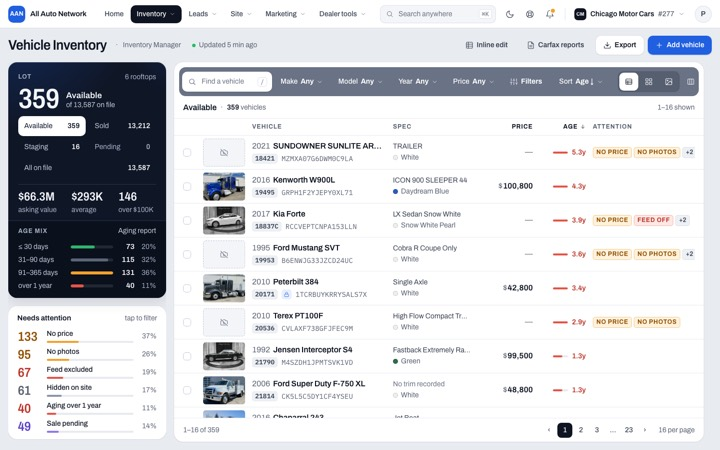
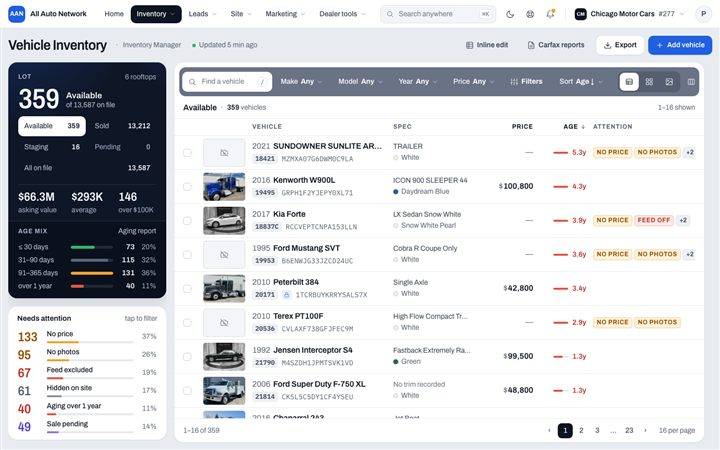
All Vehicles Gen 10: bento intelligence on top, vehicle opens inline under its row
Lot column becomes a top bento (dominant Lot with lanes and age mix, compact Value, wide Needs-attention). The side inspector is replaced by an accordion sheet beneath the selected row (photo, KPIs, tags, health, market, comps, spec, history, actions); the Dock is Filters only. Dashboard gains a Gen 10 card and previews.

diff --git a/pages/dealer/all-vehicles-gen10.js b/pages/dealer/all-vehicles-gen10.js
@@ -1,4 +1,5 @@
-/* Gen 10 — Gen 7 workspace behaviour, plus: platform menus, Light/Dark, and the Dock as accordions
+/* Gen 10 — bento intelligence on top, vehicle opens INLINE under its row (accordion sheet), Dock = Filters only.
+   Platform menus, Light/Dark, facet counts
    (Filters with facet counts; vehicle inspector with Market & pricing, Recent comps, History).
    Prototype JS. Every facet count, market figure, comparable listing and history entry is DEMO data. */
 (function () {
@@ -37,7 +38,7 @@
   var S = {
     sort: 'days', dir: 'desc', attn: {}, age: null, sel: {}, lane: 'Available', dock: null, cur: null, fq: '', allMakes: false,
     f: { make: {}, model: {}, year: {}, price: {}, mile: {}, loc: {}, type: {}, merch: {}, color: {}, opt: {} },
-    acc: { health: false, market: true, comps: false, spec: false, hist: false, 'f-make': true, 'f-price': true, 'f-year': false, 'f-model': false, 'f-mile': false, 'f-loc': false, 'f-type': false, 'f-merch': false, 'f-color': false, 'f-opt': false, 'f-audit': false }
+    acc: { health: true, market: false, comps: false, spec: false, hist: false, 'f-make': true, 'f-price': true, 'f-year': false, 'f-model': false, 'f-mile': false, 'f-loc': false, 'f-type': false, 'f-merch': false, 'f-color': false, 'f-opt': false, 'f-audit': false }
   };
 
   function band(d) { return d <= 30 ? 'fresh' : d <= 90 ? 'mid' : d <= 365 ? 'late' : 'stale'; }
@@ -85,7 +86,7 @@
   /* ── rows ─────────────────────────────────────────────────────────── */
   function tag(t) { return '<span class="tag' + (TONE[t] ? ' tag--' + TONE[t] : '') + '">' + esc(t) + '</span>'; }
   function row(v) {
-    var b = band(v.d), max = S.dock ? 1 : (v.f.length > 3 ? 2 : 3), tags = v.f.slice(0, max), rest = v.f.length - tags.length;
+    var b = band(v.d), max = S.dock === 'filters' ? 1 : (v.f.length > 3 ? 2 : 3), tags = v.f.slice(0, max), rest = v.f.length - tags.length;
     var name = v.y + ' ' + v.mk + ' ' + v.md;
     return '<div class="row' + (S.sel[v.id] ? ' sel' : '') + (S.cur === v.id ? ' open' : '') + '" data-id="' + v.id + '" tabindex="0" aria-label="' + esc(name) + '">' +
       '<input class="ck" type="checkbox" data-sel="' + v.id + '"' + (S.sel[v.id] ? ' checked' : '') + ' aria-label="Select ' + esc(name) + '">' +
@@ -101,7 +102,8 @@
 
   function render() {
     var L = list(), F = filtered();
-    $('#tb').innerHTML = L.length ? L.map(row).join('') : '<div class="empty">No vehicles match these filters.<button type="button" data-act="clear-all">Clear all</button></div>';
+    $('#tb').innerHTML = L.length ? L.map(function (v) { return row(v) + (S.cur === v.id ? '<div class="exp" id="exp"><div><div class="exp__in">' + vehicleSheet(v) + '</div></div></div>' : ''); }).join('') : '<div class="empty">No vehicles match these filters.<button type="button" data-act="clear-all">Clear all</button></div>';
+    var ex = $('#exp'); if (ex) { if (S.expNow) ex.classList.add('exp--open'); else requestAnimationFrame(function () { requestAnimationFrame(function () { ex.classList.add('exp--open'); }); }); S.expNow = true; }
     $('#shown').textContent = (L.length ? '1–' + L.length : '0') + ' of ' + (F ? L.length : 359);
 
     var chips = [];
@@ -131,7 +133,6 @@
     var n = Object.keys(S.sel).filter(function (x) { return S.sel[x]; }).length;
     $('#tray').classList.toggle('tray--on', n > 0); $('#tray-n').textContent = n;
     if (S.dock === 'filters') renderFilters();
-    if (S.dock === 'vehicle') { var v = byId(S.cur), i = L.indexOf(v); $('#dock-c').textContent = i >= 0 ? (i + 1) + ' of ' + L.length : 'not in current filter'; }
   }
   function renderMakes() {
     $('#make-list').innerHTML = MAKES.map(function (m) { return '<label class="pop__it"><input class="ck" type="checkbox" data-f="make" data-k="' + esc(m[0]) + '"' + (S.f.make[m[0]] ? ' checked' : '') + '><span>' + esc(m[0]) + '</span><span class="c">' + m[1] + '</span></label>'; }).join('');
@@ -182,16 +183,30 @@
     if (p) { if (open) p.removeAttribute('inert'); else p.setAttribute('inert', ''); }
   }
   function openDock() { $('#app').classList.add('dock-open'); $('[data-act="filters"]').classList.toggle('facet__b--on', S.dock === 'filters'); }
-  function closeDock() { S.dock = null; S.cur = null; $('#app').classList.remove('dock-open'); $('[data-act="filters"]').classList.remove('facet__b--on'); $('#dock-f').className = 'dock__f'; render(); }
+  function closeDock() { S.dock = null; $('#app').classList.remove('dock-open'); $('[data-act="filters"]').classList.remove('facet__b--on'); $('#dock-f').className = 'dock__f'; render(); }
 
   function showVehicle(id) {
     var v = byId(id); if (!v) return;
-    S.cur = id; S.dock = 'vehicle';
-    $('#dock-t').textContent = 'Vehicle'; $('#dock-nav').hidden = false;
-    $('#dock-b').innerHTML = vehicleBody(v); $('#dock-b').scrollTop = 0;
-    $('#dock-f').className = 'dock__f'; $('#dock-f').innerHTML = vehicleFoot(v);
-    openDock(); render();
-    var r = $('.row[data-id="' + id + '"]'); if (r) r.scrollIntoView({ block: 'nearest' });
+    if (S.cur === id) { closeVehicle(); return; }
+    var ex = $('#exp');
+    S.cur = id; S.expNow = false;
+    var go = function () { render(); var r = $('.row[data-id="' + id + '"]'); if (r) r.scrollIntoView({ block: 'nearest' }); };
+    if (ex) { ex.classList.remove('exp--open'); setTimeout(go, 200); } else go();
+  }
+  function closeVehicle() {
+    var ex = $('#exp'); S.cur = null;
+    if (ex) { ex.classList.remove('exp--open'); setTimeout(render, 200); } else render();
+  }
+
+  function vehicleSheet(v) {
+    var has = function (t) { return v.f.indexOf(t) >= 0; };
+    var acts = '<div class="veh__acts"><button class="btn btn--primary" type="button">' + ic('i-edit') + ' Edit vehicle</button>' +
+      '<button class="btn btn--sheet" type="button">' + ic('i-cam') + ' Photos</button><button class="btn btn--sheet" type="button">' + ic('i-print') + ' Window sticker</button>' +
+      '<button class="btn btn--sheet" type="button">' + ic('i-file') + ' Carfax</button><button class="btn btn--sheet" type="button">' + ic('i-rss') + (has('Feed off') ? ' Include in feeds' : ' Exclude from feeds') + '</button>' +
+      '<button class="btn btn--sheet" type="button">' + ic('i-eye') + (has('Hidden') ? ' Show on site' : ' Hide on site') + '</button><button class="btn btn--quiet" type="button" style="color:var(--danger)">' + ic('i-trash') + ' Delete…</button></div>';
+    var p = vehicleBody(v);
+    return '<div class="exp__l">' + p.img + p.kv + acts + '</div>' +
+      '<div class="exp__r"><div class="exp__top"><div><h3 class="veh__n"><em>' + v.y + '</em>' + esc(v.mk) + ' ' + esc(v.md) + '</h3>' + p.meta + p.tags + '</div><button class="exp__x" type="button" data-act="close-veh" aria-label="Close vehicle">' + ic('i-x') + '</button></div><div class="exp__accs">' + p.accs + '</div></div>';
   }
 
   function vehicleBody(v) {
@@ -242,16 +257,17 @@
 
     var specIn = '<div class="spec2"><div><span>Trim</span><span title="' + esc(v.tr) + '">' + (esc(v.tr) || '—') + '</span></div><div><span>Exterior</span><span>' + esc(v.c) + '</span></div><div><span>Type</span><span>Used</span></div><div><span>Mileage</span><span>Not recorded</span></div><div><span>Location</span><span>Chicago Motor Cars</span></div><div><span>Stock #</span><span class="mono">' + esc(v.s) + '</span></div></div>';
 
-    return '<div class="veh__img">' + (v.t ? '<img alt="' + esc(v.y + ' ' + v.mk + ' ' + v.md) + '" src="img/' + esc(v.t) + '"><span class="cnt">' + ic('i-cam') + nf(v.ph || 0) + ' photos</span>' : '<div class="none">' + ic('i-cam-off') + 'No photos uploaded<button class="btn btn--sm" type="button">' + ic('i-plus') + ' Upload photos</button></div>') + '</div>' +
-      '<h3 class="veh__n"><em>' + v.y + '</em>' + esc(v.mk) + ' ' + esc(v.md) + '</h3>' +
-      '<div class="veh__m"><span class="idtag">' + esc(v.s) + '</span><span class="mono">VIN ' + esc(v.vin) + '</span><span class="veh__st">Available</span>' + (v.lock ? '<span class="lock" title="Being edited by another user">' + ic('i-lock') + '</span>' : '') + '</div>' +
-      (v.f.length ? '<div class="veh__tags">' + v.f.map(tag).join('') + '</div>' : '') +
-      '<div class="veh__kv"><div><div class="v' + (v.p == null ? ' warn' : '') + '">' + (v.p == null ? 'No price' : fmt(v.p)) + '</div><div class="l">asking price</div></div><div><div class="v" style="color:' + (b === 'stale' ? 'var(--danger)' : b === 'fresh' ? 'var(--ok)' : 'var(--ink)') + '">' + lab(v.d) + '</div><div class="l">' + nf(v.d) + ' days</div></div><div><div class="v">' + (v.ph || 0) + '</div><div class="l">photos</div></div></div>' +
-      acc('health', 'Merchandising health', healthSum, '<div class="health">' + H.map(function (h) { return '<div class="hl hl--' + h[0] + '"><i>' + ic(h[1]) + '</i>' + esc(h[2]) + '</div>'; }).join('') + '</div>') +
-      acc('market', 'Market &amp; pricing', mktSum, mktIn, ' <span class="demo">Demo</span>') +
-      acc('comps', 'Recent comps', '5 of ' + m.n + ' listings', compsIn, ' <span class="demo">Demo</span>') +
-      acc('spec', 'Specification', esc(v.tr || 'No trim recorded'), specIn) +
-      acc('hist', 'History', 'Edited 3 days ago', histIn, ' <span class="demo">Demo</span>');
+    return {
+      img: '<div class="veh__img">' + (v.t ? '<img alt="' + esc(v.y + ' ' + v.mk + ' ' + v.md) + '" src="img/' + esc(v.t) + '"><span class="cnt">' + ic('i-cam') + nf(v.ph || 0) + ' photos</span>' : '<div class="none">' + ic('i-cam-off') + 'No photos uploaded<button class="btn btn--sm" type="button">' + ic('i-plus') + ' Upload photos</button></div>') + '</div>',
+      meta: '<div class="veh__m"><span class="idtag">' + esc(v.s) + '</span><span class="mono">VIN ' + esc(v.vin) + '</span><span class="veh__st">Available</span>' + (v.lock ? '<span class="lock" title="Being edited by another user">' + ic('i-lock') + '</span>' : '') + '</div>',
+      tags: (v.f.length ? '<div class="veh__tags">' + v.f.map(tag).join('') + '</div>' : ''),
+      kv: '<div class="veh__kv"><div><div class="v' + (v.p == null ? ' warn' : '') + '">' + (v.p == null ? 'No price' : fmt(v.p)) + '</div><div class="l">asking price</div></div><div><div class="v" style="color:' + (b === 'stale' ? 'var(--danger)' : b === 'fresh' ? 'var(--ok)' : 'var(--ink)') + '">' + lab(v.d) + '</div><div class="l">' + nf(v.d) + ' days</div></div><div><div class="v">' + (v.ph || 0) + '</div><div class="l">photos</div></div></div>',
+      accs: acc('health', 'Merchandising health', healthSum, '<div class="health">' + H.map(function (h) { return '<div class="hl hl--' + h[0] + '"><i>' + ic(h[1]) + '</i>' + esc(h[2]) + '</div>'; }).join('') + '</div>') +
+        acc('market', 'Market &amp; pricing', mktSum, mktIn, ' <span class="demo">Demo</span>') +
+        acc('comps', 'Recent comps', '5 of ' + m.n + ' listings', compsIn, ' <span class="demo">Demo</span>') +
+        acc('spec', 'Specification', esc(v.tr || 'No trim recorded'), specIn) +
+        acc('hist', 'History', 'Edited 3 days ago', histIn, ' <span class="demo">Demo</span>')
+    };
   }
 
   function vehicleFoot(v) {
@@ -316,7 +332,7 @@
       setAccOpen(sec, q ? !sec.hidden : !!S.acc[sec.dataset.acc]);
     });
   }
-  function showFilters() { S.cur = null; S.dock = 'filters'; $('#dock-b').scrollTop = 0; openDock(); render(); }
+  function showFilters() { S.dock = 'filters'; $('#dock-b').scrollTop = 0; openDock(); render(); }
 
   /* ── platform menus, theme ────────────────────────────────────────── */
   function closeMenus(except) { $$('.nav__it--open').forEach(function (it) { if (it !== except) { it.classList.remove('nav__it--open'); var b = $('[data-menu]', it); if (b) b.setAttribute('aria-expanded', 'false'); } }); }
@@ -338,10 +354,10 @@
     if ((el = t.closest('[data-act="theme"]'))) { setTheme(document.documentElement.getAttribute('data-theme') === 'dark' ? 'light' : 'dark', true); return; }
     if ((el = t.closest('[data-act="filters"]'))) { if (S.dock === 'filters') closeDock(); else showFilters(); return; }
     if ((el = t.closest('[data-act="close"]'))) { closeDock(); return; }
+    if ((el = t.closest('[data-act="close-veh"]'))) { closeVehicle(); return; }
     if ((el = t.closest('[data-act="all-makes"]'))) { S.allMakes = !S.allMakes; render(); return; }
     if ((el = t.closest('[data-act="reset-f"]'))) { Object.keys(S.f).forEach(function (g) { S.f[g] = {}; }); renderMakes(); render(); return; }
-    if ((el = t.closest('[data-act="prev"], [data-act="next"]'))) { var L = list(), i = L.findIndex(function (x) { return x.id === S.cur; }); var nx = L[(i + (el.dataset.act === 'next' ? 1 : -1) + L.length) % L.length]; if (nx) showVehicle(nx.id); return; }
-    if ((el = t.closest('[data-fk]'))) { var fk = el.dataset.fk.split(':'); tog(fk[0], fk[1]); return; }
+        if ((el = t.closest('[data-fk]'))) { var fk = el.dataset.fk.split(':'); tog(fk[0], fk[1]); return; }
     if ((el = t.closest('[data-lane]'))) { setLane(el.dataset.lane); return; }
     if ((el = t.closest('.ar[data-attn]'))) { setAttn(el.dataset.attn, !S.attn[el.dataset.attn]); return; }
     if ((el = t.closest('[data-age]'))) { setAge(S.age === el.dataset.age ? null : el.dataset.age); return; }
@@ -367,7 +383,7 @@
   });
   document.addEventListener('keydown', function (e) {
     var a = document.activeElement;
-    if (e.key === 'Escape') { if ($('.nav__it--open') || $('.pop--open')) { closeMenus(); closePops(); } else if (S.dock) closeDock(); return; }
+    if (e.key === 'Escape') { if ($('.nav__it--open') || $('.pop--open')) { closeMenus(); closePops(); } else if (S.cur) closeVehicle(); else if (S.dock) closeDock(); return; }
     if (e.key === 'Enter' && a && a.matches && a.matches('.row[data-id]')) { showVehicle(a.dataset.id); return; }
     if (e.key === '/' && !/input|select|textarea/i.test(a.tagName)) { e.preventDefault(); $('#q').focus(); }
   });
@@ -390,5 +406,5 @@
     else if ('filters' in P) showFilters();
     else render();
   })();
-  window.G8demo = { showVehicle: showVehicle, showFilters: showFilters, closeDock: closeDock, S: S, V: V };
+  window.G8demo = { showVehicle: showVehicle, closeVehicle: closeVehicle, showFilters: showFilters, closeDock: closeDock, S: S, V: V };
 })();

diff --git a/pages/dealer/all-vehicles-gen10.html b/pages/dealer/all-vehicles-gen10.html
@@ -3,7 +3,7 @@
 <head>
 <meta charset="utf-8">
 <meta name="viewport" content="width=device-width, initial-scale=1">
-<title>Vehicle Inventory · Chicago Motor Cars — AAN (Gen 10)</title>
+<title>Vehicle Inventory · Chicago Motor Cars — AAN (Gen 10 · bento + inline vehicle)</title>
 <script>try { var t = localStorage.getItem('aan-theme'); if (t === 'dark' || t === 'light') document.documentElement.setAttribute('data-theme', t); } catch (e) {}</script>
 <link rel="stylesheet" href="all-vehicles-gen10.css">
 </head>
@@ -143,35 +143,43 @@
     <button class="btn btn--primary" type="button"><svg class="i"><use href="#i-plus"/></svg> Add vehicle</button>
   </div>
 
-  <!-- LOT column — understand -->
-  <aside class="lot" aria-label="Lot intelligence">
-    <section class="focal">
-      <div class="focal__h"><span class="caps">Lot</span><span class="s">6 rooftops</span></div>
-      <div class="hero"><div class="hero__n" id="scope-n">359</div><div class="hero__l"><b id="scope-l">Available</b><span class="hero__of">of 13,587 on file</span></div></div>
-      <div class="lanes" role="group" aria-label="Lane">
-        <button class="lane lane--on" type="button" data-lane="Available" aria-pressed="true"><span>Available</span><b>359</b></button>
-        <button class="lane" type="button" data-lane="Sold" aria-pressed="false"><span>Sold</span><b>13,212</b></button>
-        <button class="lane" type="button" data-lane="Staging" aria-pressed="false"><span>Staging</span><b>16</b></button>
-        <button class="lane lane--zero" type="button" data-lane="Pending" aria-pressed="false"><span>Pending</span><b>0</b></button>
-        <button class="lane lane--all" type="button" data-lane="All" aria-pressed="false"><span>All on file</span><b>13,587</b></button>
+  <!-- BENTO — understand, on top: one dominant object, one compact value module, one working queue -->
+  <section class="bento" aria-label="Lot intelligence">
+    <div class="focal">
+      <div class="focal__main">
+        <div class="focal__h"><span class="caps">Lot</span><span class="s">6 rooftops · updated 5 min ago</span></div>
+        <div class="hero"><div class="hero__n" id="scope-n">359</div><div class="hero__l"><b id="scope-l">Available</b><span class="hero__of">of 13,587 on file</span></div></div>
+        <div class="lanes" role="group" aria-label="Lane">
+          <button class="lane lane--on" type="button" data-lane="Available" aria-pressed="true"><span>Available</span><b>359</b></button>
+          <button class="lane" type="button" data-lane="Sold" aria-pressed="false"><span>Sold</span><b>13,212</b></button>
+          <button class="lane" type="button" data-lane="Staging" aria-pressed="false"><span>Staging</span><b>16</b></button>
+          <button class="lane lane--zero" type="button" data-lane="Pending" aria-pressed="false"><span>Pending</span><b>0</b></button>
+          <button class="lane lane--all" type="button" data-lane="All" aria-pressed="false"><span>All on file</span><b>13,587</b></button>
+        </div>
       </div>
-      <div class="kv"><div><div class="v" title="$66,311,600">$66.3M</div><div class="l">asking value</div></div><div><div class="v" title="$293,414">$293K</div><div class="l">average</div></div><div><div class="v">146</div><div class="l">over $100K</div></div></div>
       <div class="agemix">
         <div class="agemix__h"><span class="caps">Age mix</span><a class="s" href="#">Aging report</a></div>
         <div class="agerows"><button type="button" class="agerow" data-age="fresh" aria-pressed="false"><span class="agerow__l">≤ 30 days</span><span class="agerow__m"><i style="--seg:var(--age-fresh);width:56%"></i></span><b>73</b><em>20%</em></button><button type="button" class="agerow" data-age="mid" aria-pressed="false"><span class="agerow__l">31–90 days</span><span class="agerow__m"><i style="--seg:var(--age-mid-focal);width:88%"></i></span><b>115</b><em>32%</em></button><button type="button" class="agerow" data-age="late" aria-pressed="false"><span class="agerow__l">91–365 days</span><span class="agerow__m"><i style="--seg:var(--age-late);width:100%"></i></span><b>131</b><em>36%</em></button><button type="button" class="agerow" data-age="stale" aria-pressed="false"><span class="agerow__l">over 1 year</span><span class="agerow__m"><i style="--seg:var(--age-stale);width:31%"></i></span><b>40</b><em>11%</em></button></div>
       </div>
-    </section>
+    </div>
+
+    <div class="value">
+      <div class="value__h"><span class="caps">Value</span><span class="s">asking, available</span></div>
+      <div class="kv"><div><div class="v" title="$66,311,600">$66.3M</div><div class="l">asking value</div></div><div><div class="v" title="$293,414">$293K</div><div class="l">average price</div></div><div><div class="v">146</div><div class="l">over $100K</div></div></div>
+    </div>
 
     <section class="attn" aria-label="Needs attention">
-      <div class="attn__h"><h2><span class="full">Needs attention</span><span class="short">Attention</span></h2><span class="s">tap to filter</span></div>
+      <div class="attn__h"><h2><span class="full">Needs attention</span><span class="short">Attention</span></h2><span class="s">tap to filter the list</span></div>
+      <div class="attn__g">
       <button class="ar" type="button" data-attn="no_price"><span class="ar__n">133</span><span class="ar__b"><span class="ar__l"><span class="full">No price</span><span class="short">No price</span></span><span class="ar__m"><i style="--w:37%"></i></span></span><span class="ar__p">37%</span></button>
       <button class="ar" type="button" data-attn="no_photos"><span class="ar__n">95</span><span class="ar__b"><span class="ar__l"><span class="full">No photos</span><span class="short">No photos</span></span><span class="ar__m"><i style="--w:26%"></i></span></span><span class="ar__p">26%</span></button>
       <button class="ar ar--danger" type="button" data-attn="feed_off"><span class="ar__n">67</span><span class="ar__b"><span class="ar__l"><span class="full">Feed excluded</span><span class="short">Feed off</span></span><span class="ar__m"><i style="--w:19%"></i></span></span><span class="ar__p">19%</span></button>
       <button class="ar ar--slate" type="button" data-attn="hidden"><span class="ar__n">61</span><span class="ar__b"><span class="ar__l"><span class="full">Hidden on site</span><span class="short">Hidden</span></span><span class="ar__m"><i style="--w:17%"></i></span></span><span class="ar__p">17%</span></button>
       <button class="ar ar--danger" type="button" data-attn="aging"><span class="ar__n">40</span><span class="ar__b"><span class="ar__l"><span class="full">Aging over 1 year</span><span class="short">Aging</span></span><span class="ar__m"><i style="--w:11%"></i></span></span><span class="ar__p">11%</span></button>
       <button class="ar ar--violet" type="button" data-attn="pending"><span class="ar__n">49</span><span class="ar__b"><span class="ar__l"><span class="full">Sale pending</span><span class="short">Pending</span></span><span class="ar__m"><i style="--w:14%"></i></span></span><span class="ar__p">14%</span></button>
+      </div>
     </section>
-  </aside>
+  </section>
 
   <!-- FIELD — command + inventory -->
   <section class="field" aria-label="Inventory">
@@ -208,7 +216,7 @@
 
   <!-- DOCK — contextual plane: vehicle or filters -->
   <aside class="dock" id="dock" aria-label="Context">
-    <div class="dock__h"><h2 class="dock__t" id="dock-t">Vehicle</h2><span class="dock__c" id="dock-c"></span><div class="dock__nav" id="dock-nav"><button type="button" data-act="prev" aria-label="Previous vehicle"><svg class="i"><use href="#i-left"/></svg></button><button type="button" data-act="next" aria-label="Next vehicle"><svg class="i"><use href="#i-right"/></svg></button></div><button class="dock__x" type="button" data-act="close" aria-label="Close"><svg class="i"><use href="#i-x"/></svg></button></div>
+    <div class="dock__h"><h2 class="dock__t" id="dock-t">Filters</h2><span class="dock__c" id="dock-c"></span><div class="dock__nav" id="dock-nav"><button type="button" data-act="prev" aria-label="Previous vehicle"><svg class="i"><use href="#i-left"/></svg></button><button type="button" data-act="next" aria-label="Next vehicle"><svg class="i"><use href="#i-right"/></svg></button></div><button class="dock__x" type="button" data-act="close" aria-label="Close"><svg class="i"><use href="#i-x"/></svg></button></div>
     <div class="dock__b" id="dock-b"></div>
     <div class="dock__f" id="dock-f"></div>
   </aside>

diff --git a/pages/dealer/all-vehicles-gen10.css b/pages/dealer/all-vehicles-gen10.css
@@ -521,3 +521,110 @@ kbd { font: 12px var(--mono); color: var(--ink-3); border: 1px solid var(--line)
 
 /* narrower desktops: the brand name yields first, then the page context */
 @media (max-width: 1360px) { .brand__t, .head__ctx { display: none; } .gsearch { width: 180px; } }
+
+/* ============================================================================
+   GEN 10 · bento on top + inline vehicle accordion
+   The Lot column moves above the field as a bento of unequal weight:
+   dominant focal object (scope · lanes · age mix) · compact Value · wide
+   Needs-attention queue. The vehicle no longer slides in from the side —
+   it opens as a sheet under its own row and keeps the list in view.
+   The Dock is now Filters only.
+   ========================================================================== */
+:root { --bento-h: 196px; }
+.app { grid-template-columns: minmax(0, 1fr) 0px; grid-template-rows: var(--top) var(--headh) auto minmax(0, 1fr); row-gap: 0; }
+.app.dock-open { grid-template-columns: minmax(0, 1fr) var(--dock); }
+.top { grid-row: 1; grid-column: 1 / -1; }
+.head { grid-row: 2; grid-column: 1 / -1; }
+.bento { grid-row: 3; grid-column: 1 / -1; margin-bottom: var(--gap); }
+.field { grid-row: 4; grid-column: 1; }
+.dock { grid-row: 4; grid-column: 2; }
+
+/* ── bento ───────────────────────────────────────────────────────────── */
+.bento { display: grid; grid-template-columns: minmax(560px, 1.55fr) 232px minmax(0, 1.45fr); gap: var(--gap); align-items: stretch; min-height: var(--bento-h); }
+.focal { display: grid; grid-template-columns: minmax(0, 1fr) 256px; padding: 0; }
+.focal__main { padding: 18px 20px 18px; min-width: 0; }
+.focal__h { margin-bottom: 8px; }
+.hero__n { font-size: 60px; }
+.lanes { display: flex; flex-wrap: nowrap; gap: 4px; margin-top: 14px; }
+.lane { height: 36px; padding: 0 12px; gap: 8px; flex: 0 0 auto; }
+.lane--all { grid-column: auto; margin-left: auto; }
+.agemix { margin: 0; padding: 16px 18px 14px; border-top: 0; border-left: 1px solid var(--focal-line); border-radius: 0 var(--r-l) var(--r-l) 0; display: flex; flex-direction: column; justify-content: center; }
+.agemix__h { margin-bottom: 10px; }
+.agerow { grid-template-columns: 84px minmax(0, 1fr) 32px 34px; height: 26px; }
+/* value — compact module on a sheet */
+.value { background: var(--sheet); border-radius: var(--r-l); box-shadow: var(--el-1); padding: 18px 20px 16px; display: flex; flex-direction: column; min-width: 0; }
+.value__h { display: flex; align-items: baseline; justify-content: space-between; gap: 8px; margin-bottom: 6px; }
+.value__h .s { font-size: 14px; color: var(--ink-3); white-space: nowrap; }
+.value .kv { grid-template-columns: 1fr; gap: 0; margin: 0; padding: 0; border: 0; flex: 1; align-content: space-evenly; }
+.value .kv > div { display: flex; align-items: baseline; justify-content: space-between; gap: 10px; padding: 7px 0; border-bottom: 1px solid var(--line-2); }
+.value .kv > div:last-child { border-bottom: 0; }
+.value .kv .v { font-size: 22px; color: var(--ink); }
+.value .kv .l { margin: 0; color: var(--ink-3); font-size: 14px; }
+/* attention — wide sheet, 2 × 3 queue */
+.attn { padding: 14px 12px 10px; display: flex; flex-direction: column; min-width: 0; }
+.attn__h { padding: 0 8px 8px; }
+.attn__g { display: grid; grid-template-columns: 1fr 1fr; gap: 2px 8px; flex: 1; align-content: start; }
+.ar { height: 40px; }
+
+/* ── rows: the open vehicle becomes a sheet under its row ───────────── */
+.row.open { border-radius: 12px 12px 0 0; box-shadow: 0 0 0 1px var(--brand-soft-2); z-index: 3; margin-bottom: 0; }
+.row.open::before { bottom: 0; border-radius: 2px 2px 0 0; }
+.exp { display: grid; grid-template-rows: 0fr; transition: grid-template-rows var(--dur2) var(--ease); margin: 0 6px; }
+.exp > div { min-height: 0; overflow: hidden; }
+.exp--open { grid-template-rows: 1fr; }
+.exp__in { position: relative; display: grid; grid-template-columns: 332px minmax(0, 1fr); gap: 24px; padding: 6px 20px 20px 20px; background: var(--sheet); border-radius: 0 0 12px 12px; box-shadow: var(--el-2), 0 0 0 1px var(--brand-soft-2); opacity: 0; transform: translateY(-4px); transition: opacity var(--dur2) var(--ease) 60ms, transform var(--dur2) var(--ease) 60ms; }
+.exp--open .exp__in { opacity: 1; transform: none; }
+.exp__in::before { content: ""; position: absolute; left: 0; top: 0; bottom: 10px; width: 3px; border-radius: 0 0 2px 2px; background: var(--brand); }
+.exp__l { min-width: 0; }
+.exp__r { min-width: 0; }
+.exp .veh__img { height: 208px; }
+.exp .veh__kv { margin: 14px 0 0; }
+.exp .veh__acts { display: grid; grid-template-columns: 1fr 1fr; gap: 6px; margin-top: 12px; }
+.exp .veh__acts .btn--primary { grid-column: 1 / -1; }
+.exp .veh__n { margin-top: 0; font-size: 22px; }
+.exp .exp__top { display: flex; align-items: flex-start; justify-content: space-between; gap: 12px; padding-top: 6px; }
+.exp .exp__x { flex: 0 0 auto; width: 34px; height: 34px; border-radius: 9px; display: grid; place-items: center; color: var(--ink-2); }
+.exp .exp__x:hover { background: var(--wash); color: var(--ink); }
+.exp .acc__h { min-height: 46px; }
+.exp .exp__accs { margin-top: 8px; border-top: 1px solid var(--line-2); }
+.exp .exp__accs .acc:first-of-type { border-top: 0; }
+.exp .exp__accs .acc__in { padding-bottom: 14px; }
+.exp .health { grid-template-columns: 1fr 1fr 1fr; }
+.exp .spec2 { grid-template-columns: 1fr 1fr 1fr; }
+.row.open + .exp { margin-bottom: 10px; }
+.row.open + .exp + .row { border-top: 1px solid var(--line-2); }
+/* while a vehicle is open, secondary facets keep their place (no dock) */
+.app.veh-open .field .spec { display: block; }
+:root { --bento-h: 212px; }
+.bento { grid-template-columns: minmax(600px, 1.6fr) 232px minmax(0, 1.4fr); }
+.lanes { flex-wrap: wrap; gap: 4px 6px; margin-top: 12px; }
+.lane { height: 34px; padding: 0 11px; }
+.lane--all { margin-left: 0; }
+.ar { height: 44px; }
+.attn__g { align-content: space-evenly; }
+.value .kv > div { padding: 9px 0; }
+:root { --bento-h: 208px; }
+.lane { height: 32px; padding: 0 10px; font-size: 13px; gap: 6px; }
+.lanes { gap: 4px; }
+.exp__in { grid-template-columns: 300px minmax(0, 1fr); }
+.exp .veh__img { height: 188px; }
+.exp .veh__kv { padding: 12px 14px; }
+.exp .veh__kv .v { font-size: 20px; }
+/* the bento is not a column any more: it keeps its full form while the Filters dock is open */
+.app.dock-open .bento .focal__h .s, .app.dock-open .bento .hero__of, .app.dock-open .bento .attn__h .s, .app.dock-open .bento .full { display: inline; }
+.app.dock-open .bento .short { display: none; }
+.app.dock-open .bento .lanes { display: flex; }
+.app.dock-open .bento .kv { display: grid; }
+.app.dock-open .bento .agemix { display: flex; }
+.app.dock-open .bento .ar__m { display: block; } .app.dock-open .bento .ar__p { display: block; }
+.app.dock-open .bento .focal { padding: 0; border-radius: var(--r-l); }
+.app.dock-open .bento .focal__h { margin-bottom: 8px; }
+.app.dock-open .bento .hero { flex-direction: row; align-items: flex-end; gap: 14px; }
+.app.dock-open .bento .hero__n { font-size: 60px; }
+.app.dock-open .bento .hero__l { padding-bottom: 3px; } .app.dock-open .bento .hero__l b { font-size: 17px; }
+.app.dock-open .bento .attn { padding: 14px 12px 10px; }
+.app.dock-open .bento .attn__h { padding: 0 8px 8px; }
+.app.dock-open .bento .attn__h h2 { font-size: 15px; font-weight: 600; letter-spacing: -.005em; text-transform: none; color: var(--ink); }
+.app.dock-open .bento .ar { grid-template-columns: 50px minmax(0, 1fr) 38px; gap: 8px; height: 44px; padding: 0 10px; }
+.app.dock-open .bento .ar__n { font-size: 26px; }
+.app.dock-open .bento .ar__l { font-size: 14px; margin: 0 0 6px; color: var(--ink); }

diff --git a/index.html b/index.html
@@ -48,11 +48,25 @@
 <div class="wrap">
   <header>
     <h1>AAN Reseller — All Vehicles redesign<small>Dealer UI · Chicago Motor Cars #277 · every generation, live and static, 1440 light</small></h1>
-    <div class="meta">Functional source: AAN backend export 2026-09-09 · Demo data, local assets, no network · <b>Gen 8</b> is the leading direction · <b>Gen 9</b> is in review</div>
+    <div class="meta">Functional source: AAN backend export 2026-09-09 · Demo data, local assets, no network · <b>Gen 10</b> is the working generation · <b>Gen 8</b> leading design language · <b>Gen 9</b> in review</div>
   </header>
 
   <h2>In review — newest</h2>
   <div class="grid">
+    <div class="card card--lead">
+      <img class="shot" src="previews/gen10.jpg" alt="Gen 10">
+      <div class="body">
+        <span class="tag tag--cur">Gen 10 · working generation</span>
+        <div class="t">Bento intelligence on top · vehicle opens inline under its row</div>
+        <p class="d">Gen 8 design language with a new composition: the Lot column moves above the list as a bento of unequal weight — dominant dark Lot (scope, lanes, age mix), compact Value, wide Needs-attention queue — so the inventory field runs full width. A vehicle no longer slides in from the side: its row lifts and a sheet opens beneath it (photo, KPIs, tags, Merchandising health, Market &amp; pricing, Comps, Spec, History, actions). The Dock is Filters only.</p>
+        <div class="shots3">
+          <div><img src="previews/gen10-vehicle.jpg" alt=""><span>vehicle opened inline</span></div>
+          <div><img src="previews/gen10.jpg" alt=""><span>bento on top</span></div>
+          <div><img src="previews/gen8-dark.jpg" alt=""><span>Gen 8 language, dark</span></div>
+        </div>
+        <div class="links"><a href="pages/dealer/all-vehicles-gen10.html">Open Gen 10 live →</a><a class="s" href="reference/archive/redesign-gen10-1440-light.png">1440 screenshot</a><a class="s" href="reference/archive/redesign-gen10-1440-vehicle.png">vehicle inline</a><a class="s" href="reference/archive/redesign-gen10-1440-dark-filters.png">dark · filters</a></div>
+      </div>
+    </div>
     <div class="card card--lead">
       <img class="shot" src="previews/gen9.jpg" alt="Gen 9">
       <div class="body">
